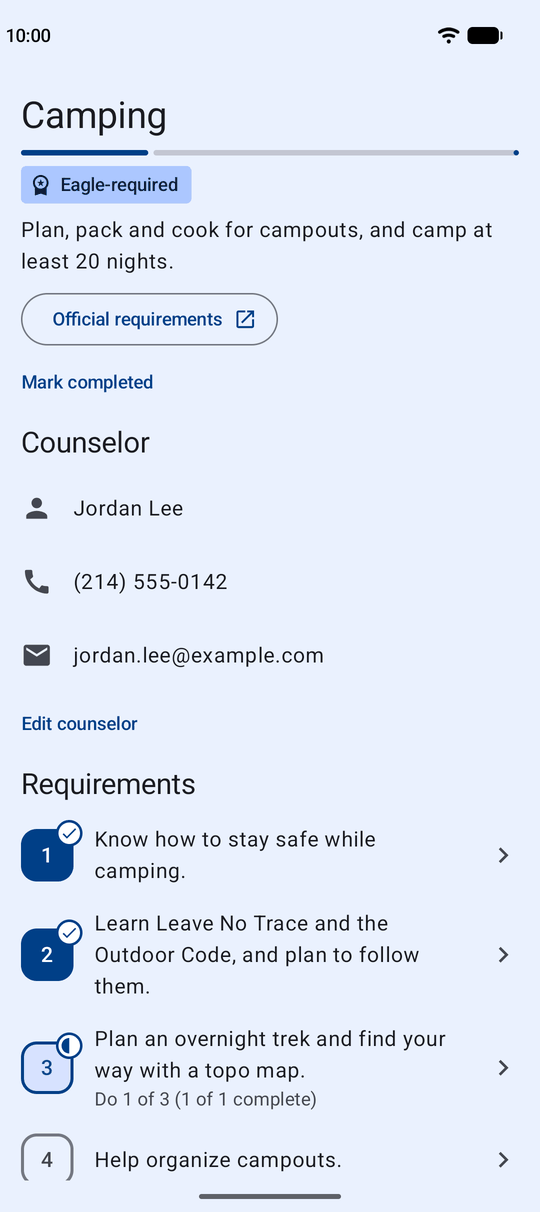
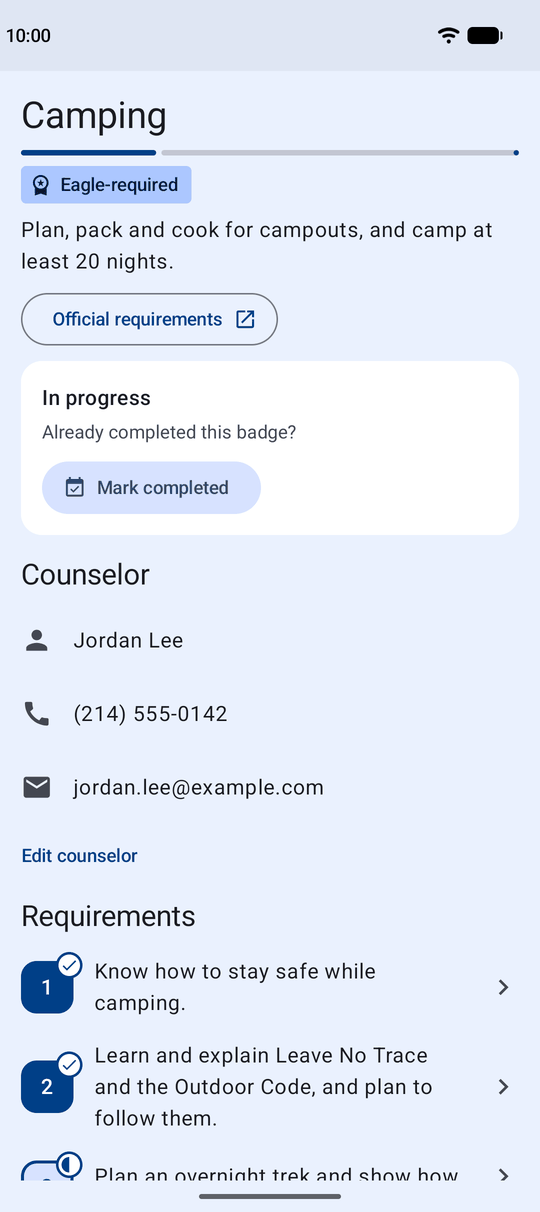
Set the status bar apart from a scrolled page (#315) (#322)
Closes #315.

On pages without a top bar, a page scrolled up to the status bar ended
right under the clock and status icons, on the same color as the page.
At the largest text and display size, its cut-off text ran into them, so
neither was easy to read. It showed on Home, Manage data, Badge detail,
requirement pages, tracker rows and Onboarding with the keyboard open,
and on Onboarding in landscape at the default size.

## Cause
Measured on a Pixel 10 emulator (Android 17), debug and release builds,
at font scale 2.0 and density 540:
- **Pages never draw behind the status bar.** `BlueCardApp`'s `Scaffold`
pads every page by the system bars, and each page's scroll container
clips at its top. A scrolled page is cut off exactly at the bar's lower
edge (176 px), and no page pixels are drawn inside the bar.
- **Nothing sets the bar apart from the page.** `enableEdgeToEdge()`
makes the status bar transparent on Android 15 and later, so it shows
the page's own background (`#EAF1FE`). At this size the clock nearly
fills the bar's 176 px, so the cut-off letters sit right against the
clock and icons, with nothing between them.

The Merge dialog doesn't show this. Its list scrolls under its own 64dp
top row, which keeps cut-off text well clear of the clock.

## What
- **A band behind the status bar on every page** (`StatusBarBackground`
in `BlueCardApp.kt`), in `surfaceContainer`: `#DFE6F3` on the light
page, `#001F43` on the dark one. Material gives a top app bar this color
[…]

diff --git a/app/src/test/java/io/github/bryancassell/bluecard/ui/BlueCardAppTest.kt b/app/src/test/java/io/github/bryancassell/bluecard/ui/BlueCardAppTest.kt
@@ -1,24 +1,40 @@
 package io.github.bryancassell.bluecard.ui
 
+import android.graphics.Insets
+import android.view.View
+import android.view.WindowInsets
+import androidx.compose.material3.ColorScheme
 import androidx.compose.runtime.getValue
 import androidx.compose.runtime.mutableStateOf
 import androidx.compose.runtime.setValue
+import androidx.compose.ui.graphics.toPixelMap
+import androidx.compose.ui.platform.LocalView
 import androidx.compose.ui.semantics.ProgressBarRangeInfo
 import androidx.compose.ui.semantics.SemanticsProperties
 import androidx.compose.ui.test.SemanticsMatcher
 import androidx.compose.ui.test.assertIsDisplayed
+import androidx.compose.ui.test.assertTopPositionInRootIsEqualTo
+import androidx.compose.ui.test.captureToImage
 import androidx.compose.ui.test.junit4.v2.createComposeRule
 import androidx.compose.ui.test.onNodeWithText
+import androidx.compose.ui.test.onRoot
+import androidx.compose.ui.unit.dp
 import androidx.test.ext.junit.runners.AndroidJUnit4
 import io.github.bryancassell.bluecard.MainActivityUiState
 import io.github.bryancassell.bluecard.testing.assertAnnouncedWhenShown
+import io.github.bryancassell.bluecard.ui.theme.BlueCardDarkColorScheme
+import io.github.bryancassell.bluecard.ui.theme.BlueCardLightColorScheme
+import org.junit.Assert.assertEquals
+import org.junit.Assert.assertNotEquals
 import org.junit.Rule
 import org.junit.Test
 import org.junit.runner.RunWith
+import org.robolectric.annotation.Config
+import org.robolectric.annotation.GraphicsMode
 
 /**
- * The Loading and LoadFailed states. MainActivityTest covers Ready, which needs Hilt for the
- * screens.
+ * The Loading and LoadFailed states, and the status bar's background, which every state shows.
+ * MainActivityTest covers Ready, which needs Hilt for the screens.
  */
 @RunWith(AndroidJUnit4::class)
 class BlueCardAppTest {
@@ -65,5 +81,76 @@ class BlueCardAppTest {
         composeTestRule.assertAnnouncedWhenShown(
             "Couldn't load your data. Try closing and reopening BlueCard."
         ) { uiState = MainActivityUiState.LoadFailed }
+    }
+
+    // A page scrolled up to the status bar ends at its edge. On the page's own color, its cut-off
+    // text ran into the clock (#315).
+    @GraphicsMode(GraphicsMode.Mode.NATIVE)
+    @Config(sdk = [36])
+    @Test
+    fun statusBar_isDrawnInAColorSetApartFromThePage() {
+        assertBandCovers(WindowInsets.Type.statusBars())
+    }
+
+    @GraphicsMode(GraphicsMode.Mode.NATIVE)
+    @Config(qualifiers = "night", sdk = [36])
+    @Test
+    fun statusBar_inDarkMode_isDrawnInTheDarkSchemesColors() {
+        assertBandCovers(WindowInsets.Type.statusBars(), BlueCardDarkColorScheme)
+    }
+
+    // As the Scaffold's top bar, the band sets where pages start, so it must cover whatever the
+    // Scaffold's own padding would keep pages out of: a window's caption bar in desktop windowing,
+    // and a camera cutout taller than the status bar.
+    @GraphicsMode(GraphicsMode.Mode.NATIVE)
+    @Config(sdk = [36])
+    @Test
+    fun captionBar_isCoveredByTheBandToo() {
+        assertBandCovers(WindowInsets.Type.captionBar())
+    }
+
+    @GraphicsMode(GraphicsMode.Mode.NATIVE)
+    @Config(sdk = [36])
+    @Test
+    fun displayCutout_isCoveredByTheBandToo() {
+        assertBandCovers(WindowInsets.Type.displayCutout())
+    }
+
+    /**
+     * Gives the window a 24dp inset of [type] across its top, and checks that the band covers
+     * exactly it in [scheme]'s colors, set apart from the page, and that the page starts below it.
+     * Only Robolectric's native graphics draw real pixels. On SDK 36, as the screenshot tests are:
+     * on SDK 37, Robolectric 4.17 leaves a class's later captures blank.
+     */
+    private fun assertBandCovers(type: Int, scheme: ColorScheme = BlueCardLightColorScheme) {
+        lateinit var view: View
+        composeTestRule.setContent {
+            view = LocalView.current
+            BlueCardApp(MainActivityUiState.LoadFailed, onDismissDamagedProgressNotice = {})
+        }
+        val inset = 24.dp
+        val insetPx = with(composeTestRule.density) { inset.roundToPx() }
+        composeTestRule.runOnUiThread {
+            view.dispatchApplyWindowInsets(
+                WindowInsets.Builder()
+                    .setInsets(type, Insets.of(0, insetPx, 0, 0))
+                    .setVisible(type, true)
+                    .build()
+            )
+        }
+
+        // Both edges are clear of the message, so they show what's behind it.
+        val pixels = composeTestRule.onRoot().captureToImage().toPixelMap()
+        for (x in listOf(0, pixels.width - 1)) {
+            assertEquals(scheme.surfaceContainer, pixels[x, 0])
+            assertEquals(scheme.surfaceContainer, pixels[x, insetPx - 1])
+            assertEquals(scheme.background, pixels[x, insetPx])
+        }
+        assertNotEquals(pixels[0, 0], pixels[0, insetPx])
+        // ScreenMessage is inset 16dp from the top of the page.
+        composeTestRule.onNodeWithText(
+            "Couldn't load your data. Try closing and reopening BlueCard."
+        )
+            .assertTopPositionInRootIsEqualTo(inset + 16.dp)
     }
 }

diff --git a/app/src/main/java/io/github/bryancassell/bluecard/ui/BlueCardApp.kt b/app/src/main/java/io/github/bryancassell/bluecard/ui/BlueCardApp.kt
@@ -1,9 +1,16 @@
 package io.github.bryancassell.bluecard.ui
 
+import androidx.compose.foundation.background
+import androidx.compose.foundation.layout.Spacer
+import androidx.compose.foundation.layout.WindowInsets
 import androidx.compose.foundation.layout.consumeWindowInsets
 import androidx.compose.foundation.layout.fillMaxSize
+import androidx.compose.foundation.layout.fillMaxWidth
 import androidx.compose.foundation.layout.padding
+import androidx.compose.foundation.layout.windowInsetsTopHeight
+import androidx.compose.material3.MaterialTheme
 import androidx.compose.material3.Scaffold
+import androidx.compose.material3.ScaffoldDefaults
 import androidx.compose.runtime.Composable
 import androidx.compose.ui.Modifier
 import androidx.compose.ui.res.stringResource
@@ -21,7 +28,12 @@ import io.github.bryancassell.bluecard.ui.theme.BlueCardTheme
 fun BlueCardApp(uiState: MainActivityUiState, onDismissDamagedProgressNotice: () -> Unit) {
     ProvideStringsLanguageResources {
         BlueCardTheme {
-            Scaffold(modifier = Modifier.fillMaxSize()) { innerPadding ->
+            val insets = ScaffoldDefaults.contentWindowInsets
+            Scaffold(
+                modifier = Modifier.fillMaxSize(),
+                topBar = { StatusBarBackground(insets) },
+                contentWindowInsets = insets
+            ) { innerPadding ->
                 when (uiState) {
                     // Composed while loading too, with no text, so screen readers hear the
                     // message (see ScreenMessage).
@@ -50,4 +62,22 @@ fun BlueCardApp(uiState: MainActivityUiState, onDismissDamagedProgressNotice: ()
             }
         }
     }
+}
+
+/**
+ * Fills the space behind the status bar in a color set apart from the page's: Material's color for
+ * a top app bar that a page has scrolled under. A page scrolled up to the bar ends at its edge; on
+ * the page's own color, its cut-off text ran into the clock. As the Scaffold's top bar, its height
+ * is where every page starts, so it's as tall as the top of the Scaffold's [insets], which pages
+ * would start below without it: the status bar, or a window's caption bar or a camera cutout where
+ * either is taller.
+ */
+@Composable
+private fun StatusBarBackground(insets: WindowInsets) {
+    Spacer(
+        modifier = Modifier
+            .fillMaxWidth()
+            .windowInsetsTopHeight(insets)
+            .background(MaterialTheme.colorScheme.surfaceContainer)
+    )
 }

diff --git a/app/src/test/java/io/github/bryancassell/bluecard/MainActivityTest.kt b/app/src/test/java/io/github/bryancassell/bluecard/MainActivityTest.kt
@@ -19,6 +19,7 @@ import androidx.compose.ui.test.assertIsEnabled
 import androidx.compose.ui.test.assertIsFocused
 import androidx.compose.ui.test.assertIsNotEnabled
 import androidx.compose.ui.test.assertIsNotFocused
+import androidx.compose.ui.test.assertTopPositionInRootIsEqualTo
 import androidx.compose.ui.test.getBoundsInRoot
 import androidx.compose.ui.test.hasAnyAncestor
 import androidx.compose.ui.test.hasClickAction
@@ -2424,5 +2425,24 @@ class MainActivityTest {
         // The row reaches the side of the area, so it would slide past it.
         assertEquals(areaRight.value, badgesAtRest.right.value, 1f)
         assertTrue(badgesMoving.right <= areaRight)
+    }
+
+    // Pages start below the status bar's band (#315), as BlueCardAppTest's load-failed message
+    // does.
+    @Test
+    fun page_startsBelowTheStatusBar() {
+        launchWithProfile()
+        val statusBar = 24.dp
+        val barPixels = with(composeTestRule.density) { statusBar.roundToPx() }
+        scenario.onActivity {
+            val insets = WindowInsetsCompat.Builder()
+                .setInsets(WindowInsetsCompat.Type.statusBars(), Insets.of(0, barPixels, 0, 0))
+                .build()
+            ViewCompat.dispatchApplyWindowInsets(it.window.decorView, insets)
+        }
+
+        // Home's name is 16dp from the top of the page.
+        composeTestRule.onNodeWithText("Alex Scout")
+            .assertTopPositionInRootIsEqualTo(statusBar + 16.dp)
     }
 }

diff --git a/app/src/main/java/io/github/bryancassell/bluecard/ui/data/ImportDialogs.kt b/app/src/main/java/io/github/bryancassell/bluecard/ui/data/ImportDialogs.kt
@@ -112,8 +112,9 @@ fun MergeDialog(
     }
     Dialog(
         onDismissRequest = close,
-        // Drawn behind the system bars, as the app's pages are, rather than leaving them over
-        // the dimmed page below.
+        // Drawn behind the system bars, as the app's window is, rather than leaving them over
+        // the dimmed page below. Its status bar takes its top row's color, with no band as pages
+        // have: the list scrolls under the top row, clear of the clock (PRD.md's Status bar).
         properties = DialogProperties(
             usePlatformDefaultWidth = false,
             decorFitsSystemWindows = false

diff --git a/PRD.md b/PRD.md
@@ -90,4 +90,5 @@ Choices about how the app looks and behaves, made while building it, and why. Te
 | Focus when the page changes | Opening a page, or going back to one, never puts input focus on one of its items, however the page before was left. So the keyboard stays closed and TalkBack starts where it does when the page first opens: on Badges, at "Merit badges", not in the search field. With a hardware keyboard, Tab or an arrow key moves into the page, as when it first opens. When the page before was left with focus, so does Enter | Once a key press had taken the phone out of touch mode, a page took the focus the page before had left: reopening Badges opened the keyboard and moved TalkBack to the search field ([#285](https://github.com/bryancassell/bluecard/issues/285)). It depended on keys pressed earlier, so it looked random, and searching is the scout's choice, not where Badges starts |
 | Focus after Save, or a button that goes | Saving closes the keyboard and leaves nothing on the page with input focus, whether Save is tapped, pressed with a key, or pressed with TalkBack or a switch. With a hardware keyboard, Tab or an arrow key then moves into the page, as when it first opens. On a requirement's page, which stays open, TalkBack stays on Save. A button pressed with a key that goes, or is disabled, as it's used also leaves nothing with input focus, such as Remove date, Unmark, Clear progress or Clear all | With a hardware keyboard, Save on a requirement's page moved focus to the page's first item, the Completed checkbox, so the scout lost their place. In local tests, a page that closes once saved gave its first field focus as it went, which would open the keyboard. With TalkBack on, the emulator showed neither ([#297](https://github.com/bryancassell/bluecard/issues/297)). On the emulator, Remove date, Mark completed, Unmark and Clear progress moved focus to the page's first item too. Handing focus to the button that takes its place, such as from Unmark to Mark completed, would keep the scout's place, but each would need its own code. Nothing focused is what Save and a page change leave, and covers any button that goes later ([#301](https://github.com/bryancassell/bluecard/issues/301)) |
 | Colors | The merit badge blue card's colors, the same on every phone: none taken from the wallpaper. In dark mode, a dark version of them: Scouting America Dark Blue (`#003366`) cards on a darker blue page, with the card stock's Pale Blue (`#9AB3D5`) in place of Scouting America Blue. Readability comes before matching the card exactly: every text color meets WCAG AA (4.5:1). Elsewhere, this document names the light scheme's colors | The app takes its look from the blue card. Scouts who use dark mode get the card's colors darkened, not a bright page ([#108](https://github.com/bryancassell/bluecard/issues/108)). Dark Blue itself, rather than Material's dark grey or a navy grey, keeps the dark version looking like the card |
+| Status bar | Every page has a band behind the status bar, a little darker than the page (`#DFE6F3`; in dark mode, a little lighter), shown all the time rather than only once the page scrolls. Pages start below it, and a scrolled page is cut off at its edge. The full-screen Merge dialog has none: its status bar is the color of its top row, which its list scrolls under | On the page's own color, a page scrolled up to the bar ended right under the clock and icons, and at the largest text size its cut-off text ran into them ([#315](https://github.com/bryancassell/bluecard/issues/315)). The band's color is the one Material gives a top app bar once a page scrolls under it. Showing it only once a page scrolls would need every page to say how far it's scrolled. The Merge dialog's top row already keeps its list clear of the clock, and shares its color with the status bar as Material's top app bar does before a page scrolls under it |
 | Links to scouting.org | Link each badge to its official page, and each rank to its requirements PDF. Eagle Scout links to the PDF of all the ranks | The PRD asks for links. scouting.org has no page for each rank, and Eagle has no PDF of its own |

diff --git a/ARCHITECTURE.md b/ARCHITECTURE.md
@@ -598,6 +598,13 @@ both taps of a double tap can reach it.
   which must match each scheme's `background`), a dark window theme, and the
   splash screen's white system bar icons. Once the app draws,
   `enableEdgeToEdge()` picks the bar icons from dark mode.
+- **The status bar's background is the Scaffold's top bar**
+  (`StatusBarBackground` in `BlueCardApp`), in `surfaceContainer`, as
+  [`PRD.md`](PRD.md#design-decisions)'s Status bar row chooses. As the top bar,
+  its height is where every page starts, so no page pads itself for the status
+  bar. It takes its height from the Scaffold's own window insets
+  (`ScaffoldDefaults.contentWindowInsets`), not the status bar's, so a window's
+  caption bar or a taller camera cutout can't cover the page.
 - **A full-screen dialog sets its own system bar icons.** A Compose `Dialog`
   has its own window, which doesn't get the icons `enableEdgeToEdge()` gives
   the activity's, and Android takes the bar icons from it as the top

diff --git a/README.md b/README.md
@@ -28,7 +28,7 @@ they turn backup off in the phone's settings.
   <img src="docs/images/home.png" width="250"
     alt="Home screen: a card with the Tenderfoot rank, a trail of the ranks from Scout to Eagle Scout, and Second Class next, then one badge completed and two in progress, Eagle-required progress, and the Camping and Cooking badges in progress">
   <img src="docs/images/badge-detail.png" width="250"
-    alt="Camping badge page: progress bar, Eagle-required label, the counselor's contact details, and the first requirements, two of them complete">
+    alt="Camping badge page: progress bar, Eagle-required label, a card saying the badge is in progress with a button to mark it completed, the counselor's contact details, and the first requirements, two of them complete">
   <img src="docs/images/tracker.png" width="250"
     alt="Camping requirement 9a: a log of three campouts, with a button to add another">
 </p>
